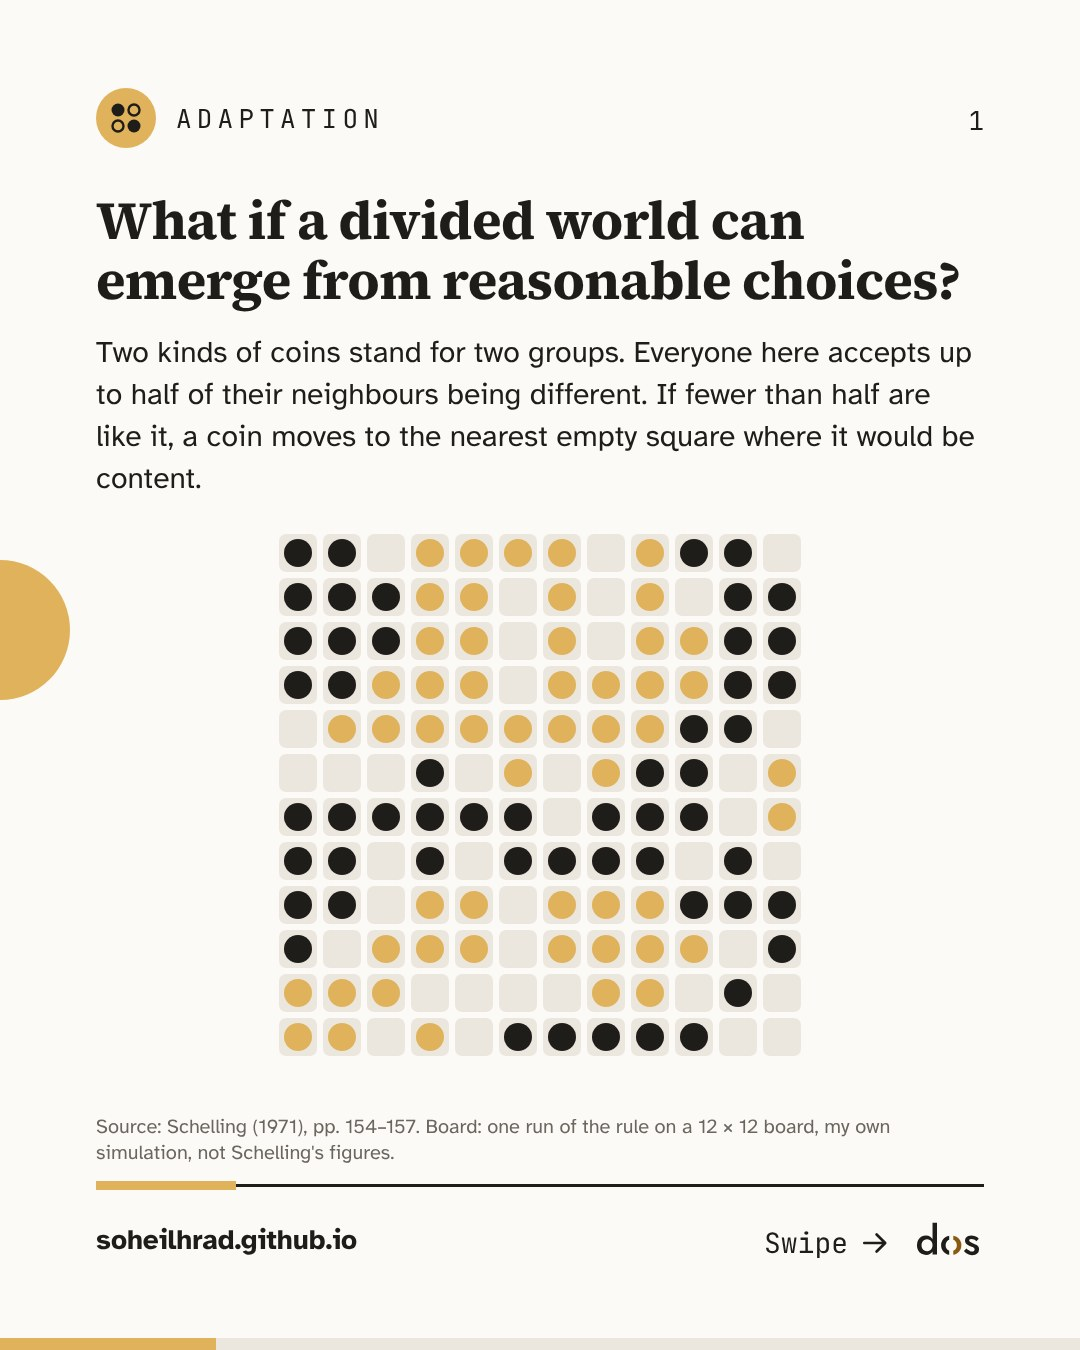
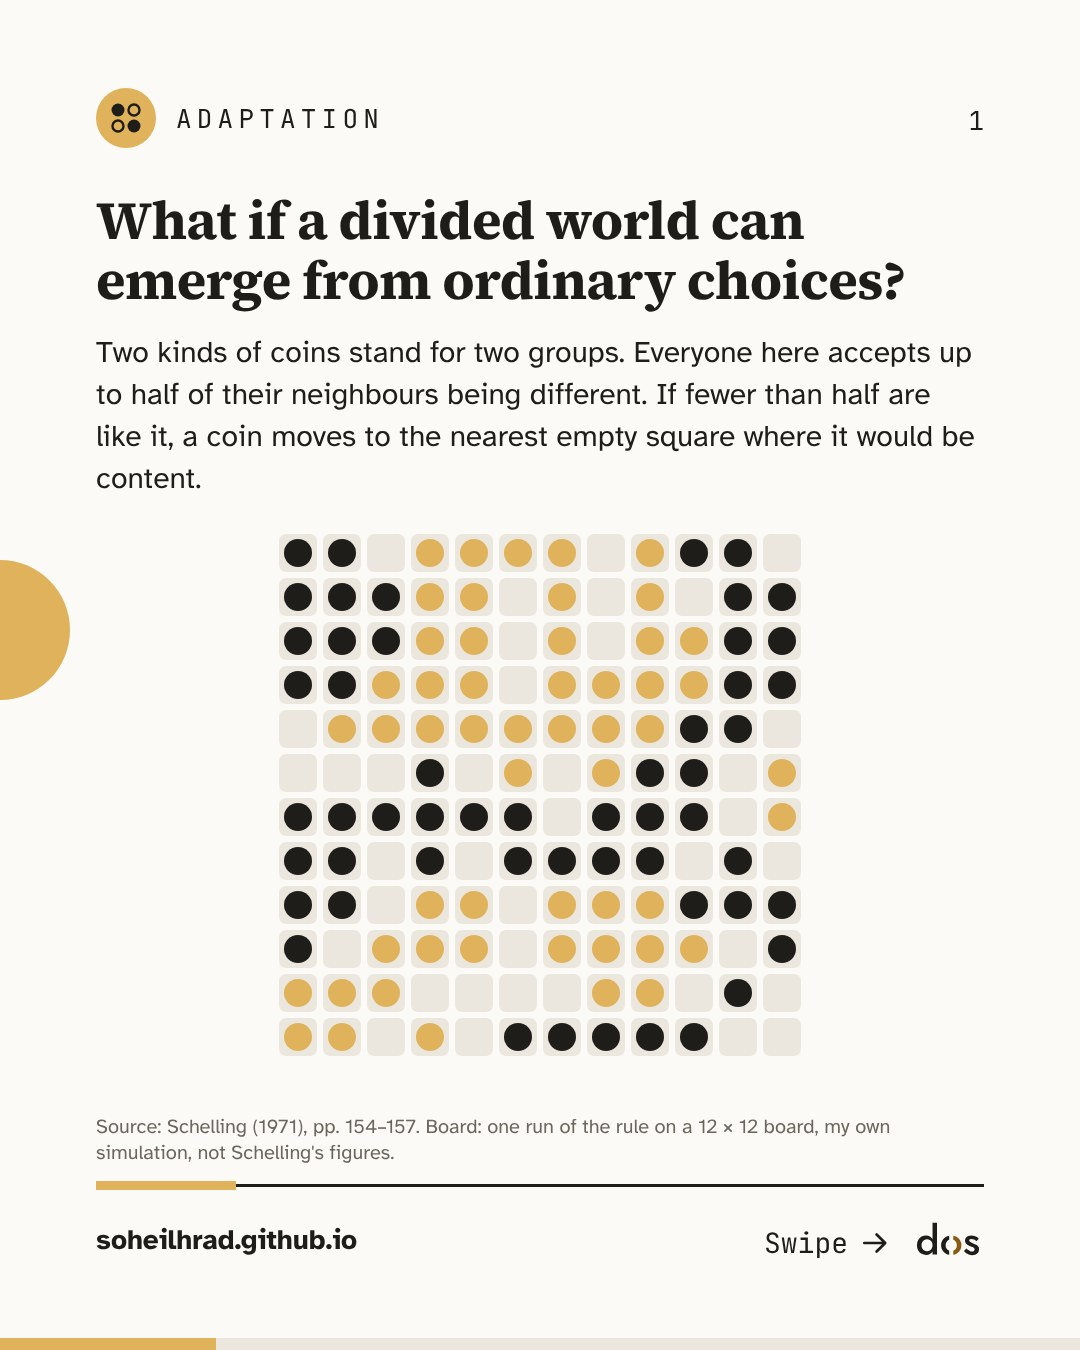
Schelling note: ordinary choices, "Nobody planned a divided map", animated slide 1 back
Slide 1 hook says "ordinary choices"; slide 5 and the note title read
"Nobody planned a divided map". The worked-example sentence no longer
states the 90% figure in the text (slide 2 still does, with its page
source). Slide 1 is the animated board again, re-rendered with the new
headline; slide1.jpg stays as the still for link previews.

Claude-Session: https://claude.ai/code/session_01PL3C4wNgfD4zTrRayGWWdK

Changed region(s): [[0.3972, 0.1867, 0.8861, 0.2489]]

diff --git a/fa/_posts/2026-10-25-schelling-segregation.md b/fa/_posts/2026-10-25-schelling-segregation.md
@@ -1,8 +1,8 @@
 ---
 layout: post
-title: "هیچکس روی این صفحه نقشهای دو دستهشده نمیخواست"
+title: "هیچکس نقشهای دو دستهشده را برنامهریزی نکرد"
 seo_title: "مدل تفکیک شلینگ: انتخابهای کوچک، جداییهای بزرگ"
-description: "در مدل سال ۱۹۷۱ توماس شلینگ، هر سکه میپذیرد که تا نیمی از همسایههایش با او فرق داشته باشند. در یکی از مثالهای حلشده، یک آدم معمولی باز هم در میان همسایههایی میماند که ۹۰ درصدشان همرنگ خودش است."
+description: "در مدل سال ۱۹۷۱ توماس شلینگ، هر سکه میپذیرد که تا نیمی از همسایههایش با او فرق داشته باشند. در یک مثال حلشده، آدمها باز هم سر از محلههایی درمیآورند که بسیار بیشتر از ترجیحهای پدیدآورندهٔ آنها تفکیکشده است."
 ref: schelling-segregation
 lang: fa
 permalink: /fa/blog/2026/10/schelling-segregation/
@@ -12,8 +12,8 @@ slides_height: 1350
 slides_lang: en
 last_modified_at: 2026-10-25
 slides:
-  - file: slide1.jpg
-    alt: "اگر جهانی دو دستهشده بتواند از انتخابهای معقول پدید بیاید چه؟ دو نوع سکه دو گروه را نشان میدهند. همه در اینجا میپذیرند که تا نیمی از همسایههایشان با آنها فرق داشته باشند. اگر کمتر از نیمی از همسایهها مثل خودش باشند، سکه به نزدیکترین خانهٔ خالیای میرود که در آن راضی خواهد بود. صفحهای ۱۲ در ۱۲ از سکههای تیره و طلایی با چند خانهٔ خالی، پس از جابهجاییها، با رنگهایی که دستهدسته کنار هماند."
+  - file: slide1.gif
+    alt: "اگر جهانی دو دستهشده بتواند از انتخابهای عادی پدید بیاید چه؟ صفحهای ۱۲ در ۱۲ از سکههای تیره و طلایی با چند خانهٔ خالی. دو نوع سکه دو گروه را نشان میدهند. همه در اینجا میپذیرند که تا نیمی از همسایههایشان با آنها فرق داشته باشند. اگر کمتر از نیمی از همسایهها مثل خودش باشند، سکه به نزدیکترین خانهٔ خالیای میرود که در آن راضی خواهد بود. سکهها یکییکی جابهجا میشوند تا رنگها دستهدسته کنار هم بنشینند."
   - file: slide2.jpg
     alt: "بیش از آنچه کسی خواسته بود دو دسته شد. هر سکه فقط لازم داشت که نیمی از همسایههایش مثل خودش باشند. در یکی از مثالهای حلشدهٔ شلینگ، اگر خودِ فرد را هم بشماریم، یک آدم معمولی در محلهای میماند که ۹۰ درصدِ آن همرنگ خودش است. دو صفحه: آغاز، با رنگهای درهم، و پس از جابهجاییها، با رنگهایی که دستهدسته کنار هماند. این یک اجرای شبیهسازی خودم از قاعده روی صفحهای ۱۲ در ۱۲ است که به ۸۳ درصد میرسد."
   - file: slide3.jpg
@@ -21,7 +21,7 @@ slides:
   - file: slide4.jpg
     alt: "سیستمها میتوانند نتیجههایی بسازند که هیچکس بهتنهایی قصدشان را نداشت. سازگاری: آدمها خودشان را با آدمهای پیرامونشان تنظیم میکنند. پدیدآیی: الگویی پیدا میشود که هیچکس هدفش را نداشت. سیستمها: جابهجایی یک نفر چیزی را که نفر بعدی میبیند عوض میکند. پیامدهای ناخواسته: نتیجههایی که هیچکس نخواسته بود، از انتخابهایی که هر کدام بهتنهایی معقول بودند."
   - file: slide5.jpg
-    alt: "هیچکس روی این صفحه نقشهای دو دستهشده نمیخواست. ما هر روز جابهجاییهایی از این دست میکنیم: کنار چه کسی مینشینیم، چه کسی را دنبال میکنیم، چه میخوانیم، کجا راحتایم. بیشترشان هرگز شبیه تصمیم نیستند. اگر جابهجاییهای کوچک میتوانند الگوهایی بسازند که هیچکس انتخابشان نکرده، جابهجاییهای کوچکِ خودِ ما امروز چه الگوهایی میسازند؟ کدامیک شاید از من باشد؟"
+    alt: "هیچکس نقشهای دو دستهشده را برنامهریزی نکرد. ما هر روز جابهجاییهایی از این دست میکنیم: کنار چه کسی مینشینیم، چه کسی را دنبال میکنیم، چه میخوانیم، کجا راحتایم. بیشترشان هرگز شبیه تصمیم نیستند. اگر جابهجاییهای کوچک میتوانند الگوهایی بسازند که هیچکس انتخابشان نکرده، جابهجاییهای کوچکِ خودِ ما امروز چه الگوهایی میسازند؟ کدامیک شاید از من باشد؟"
 ---
 
 {% include slides.html %}
@@ -30,7 +30,7 @@ slides:
 
 در سال ۱۹۷۱، توماس شلینگ (Thomas Schelling) مدلی منتشر کرد دربارهٔ اینکه چگونه تفکیک میتواند از انتخابهای فردی پدید بیاید (Schelling, 1971). صفحهای را تصور کنید با دو نوع سکه برای دو گروه، و چند خانهٔ خالی. همسایههای هر سکه همان هشت خانهٔ اطراف آن است. سکه تا وقتی راضی است که دستکم نیمی از همسایههایش مثل خودش باشند. اگر نه، به نزدیکترین خانهٔ خالیای میرود که در آن راضی خواهد بود.
 
-پس هر سکه میپذیرد که تا نیمی از همسایههایش با او فرق داشته باشند. با این حال، در یکی از مثالهای حلشدهٔ شلینگ، اگر خودِ فرد را هم بشماریم، یک آدم معمولی در محلهای میماند که ۹۰ درصدِ آن همرنگ خودش است. هیچکس ۹۰ درصد را نخواسته بود.
+پس هر سکه میپذیرد که تا نیمی از همسایههایش با او فرق داشته باشند. با این حال، در یک مثال حلشده، آدمها سر از محلههایی درمیآورند که بسیار بیشتر از ترجیحهای پدیدآورندهٔ آنها تفکیکشده است.
 
 این چگونه پیش میآید؟ به گفتهٔ شلینگ (ترجمه): «در این مدل هیچکس حرکت دیگران را پیشبینی نمیکند.» هر جابهجایی محلهٔ کسِ دیگری را عوض میکند و همین میتواند جابهجایی بعدی را به راه بیندازد. چیزی که برایم ماندگار است، عادی بودن هر گام است. یک سکه جابهجا میشود چون کمی احساس غریبگی میکند، و جابهجاییاش چیزی را که همسایههایش میبینند عوض میکند، پس یک نفر دیگر جابهجا میشود. هیچکس دو دسته شدن را برنامهریزی نمیکند، و لازم هم نیست.
 
@@ -71,5 +71,5 @@ slides:
 
 منابع (متن هر دو به انگلیسی است):
 
-1. مقالهٔ اصلی شلینگ، سال ۱۹۷۱. قاعده: صفحههای ۱۵۴ تا ۱۵۷. جملهٔ «هیچکس حرکت دیگران را پیشبینی نمیکند»: صفحهٔ ۱۴۹. مثال ۹۰ درصد: صفحهٔ ۱۵۸. چکیده: صفحهٔ ۱۴۳. نقلقولهای بالا از انگلیسی ترجمه شدهاند.<br><bdi dir="ltr">Schelling, T. C. (1971). Dynamic Models of Segregation. Journal of Mathematical Sociology, 1, 143–186.</bdi><br><bdi dir="ltr">"Nobody in this model anticipates the movements of others." (p. 149)</bdi><br><bdi dir="ltr">"Inferences about individual motives can usually not be drawn from aggregate patterns." (abstract)</bdi>
+1. مقالهٔ اصلی شلینگ، سال ۱۹۷۱. قاعده: صفحههای ۱۵۴ تا ۱۵۷. جملهٔ «هیچکس حرکت دیگران را پیشبینی نمیکند»: صفحهٔ ۱۴۹. مثال حلشده (میانگین محلهٔ هر فرد، با احتساب خودش، ۹۰ درصد همرنگ خودش است): صفحهٔ ۱۵۸. چکیده: صفحهٔ ۱۴۳. نقلقولهای بالا از انگلیسی ترجمه شدهاند.<br><bdi dir="ltr">Schelling, T. C. (1971). Dynamic Models of Segregation. Journal of Mathematical Sociology, 1, 143–186.</bdi><br><bdi dir="ltr">"Nobody in this model anticipates the movements of others." (p. 149)</bdi><br><bdi dir="ltr">"Inferences about individual motives can usually not be drawn from aggregate patterns." (abstract)</bdi>
 2. [مدل Segregation در NetLogo](https://ccl.netlogo.org/netlogo/models/Segregation).<br><bdi dir="ltr">Wilensky, U. (1997). NetLogo Segregation model. Center for Connected Learning and Computer-Based Modeling, Northwestern University.</bdi>

diff --git a/_posts/2026-10-25-schelling-segregation.md b/_posts/2026-10-25-schelling-segregation.md
@@ -1,16 +1,16 @@
 ---
 layout: post
-title: "Nobody on this board wanted a divided map"
+title: "Nobody planned a divided map"
 seo_title: "Schelling's segregation model: small choices, big divides"
-description: "In Thomas Schelling's 1971 model, every coin accepts up to half of its neighbours being different. In one worked example, the average person still ends up among neighbours who are 90% their own colour."
+description: "In Thomas Schelling's 1971 model, every coin accepts up to half of its neighbours being different. In one worked example, people still end up in neighbourhoods far more segregated than the preferences that produced them."
 ref: schelling-segregation
 image: /assets/img/posts/schelling-segregation/slide1.jpg
 slides_width: 1080
 slides_height: 1350
 last_modified_at: 2026-10-25
 slides:
-  - file: slide1.jpg
-    alt: "What if a divided world can emerge from reasonable choices? Two kinds of coins stand for two groups. Everyone here accepts up to half of their neighbours being different. If fewer than half are like it, a coin moves to the nearest empty square where it would be content. A 12 by 12 board of dark and gold coins with some empty squares, shown after the moves, with the colours in clumps."
+  - file: slide1.gif
+    alt: "What if a divided world can emerge from ordinary choices? A 12 by 12 board of dark and gold coins with some empty squares. Two kinds of coins stand for two groups. Everyone here accepts up to half of their neighbours being different. If fewer than half are like it, a coin moves to the nearest empty square where it would be content. The coins move one at a time until the colours settle into clumps."
   - file: slide2.jpg
     alt: "More divided than anyone asked for. Each coin only needed half of its neighbours to be like it. In one of Schelling's worked examples, the average person ends up in a neighbourhood that is 90% their own colour, counting themselves. Two boards: the start, with the colours mixed, and after the moves, with the colours in clumps. My own run of the rule on a 12 by 12 board, which ends at 83%."
   - file: slide3.jpg
@@ -18,7 +18,7 @@ slides:
   - file: slide4.jpg
     alt: "Systems can create outcomes that nobody individually intended. Adaptation: people adjust to the people around them. Emergence: a pattern appears that no one was aiming for. Systems: one person's move changes what the next person sees. Unintended consequences: outcomes nobody asked for, from choices that each made sense."
   - file: slide5.jpg
-    alt: "Nobody on this board wanted a divided map. We make moves like these every day: who we sit with, who we follow, what we read, where we feel at ease. Most of them never feel like decisions. If small moves can create patterns nobody chose, what patterns are our own small moves creating today? Which of them might be mine?"
+    alt: "Nobody planned a divided map. We make moves like these every day: who we sit with, who we follow, what we read, where we feel at ease. Most of them never feel like decisions. If small moves can create patterns nobody chose, what patterns are our own small moves creating today? Which of them might be mine?"
 ---
 
 {% include slides.html %}
@@ -27,7 +27,7 @@ Many of us have the same feeling: the world is dividing. In politics, in culture
 
 In 1971, Thomas Schelling published a model of how segregation can arise from individual choices (Schelling, 1971). Picture a board with two kinds of coins for two groups, and some empty squares. A coin's neighbours are the eight squares around it. A coin is content as long as at least half of its neighbours are like it. If not, it moves to the nearest empty square where it would be content.
 
-So every coin accepts up to half of its neighbours being different. Yet in one of Schelling's worked examples, the average person ends up in a neighbourhood that is 90% their own colour, counting themselves. Nobody asked for 90%.
+So every coin accepts up to half of its neighbours being different. Yet in one worked example, people end up in neighbourhoods that are far more segregated than the preferences that produced them.
 
 How does that happen? In Schelling's words: "Nobody in this model anticipates the movements of others." Each move changes the neighbourhood of someone else, and that can set off the next move. What stays with me is how ordinary each step is. One coin moves because it feels a little out of place, and its move changes what its neighbours see, so someone else moves. No one plans a divide, and no one needs to.
 
@@ -68,5 +68,5 @@ The boards on slides 1 and 2 are one run of my own simulation of the rule (a 12 
 
 Sources:
 
-- Schelling, T. C. (1971). Dynamic Models of Segregation. *Journal of Mathematical Sociology*, 1, 143–186. The rule: pp. 154–157. The "nobody anticipates" sentence: p. 149. The 90% example: p. 158. The abstract: p. 143.
+- Schelling, T. C. (1971). Dynamic Models of Segregation. *Journal of Mathematical Sociology*, 1, 143–186. The rule: pp. 154–157. The "nobody anticipates" sentence: p. 149. The worked example (the average person's neighbourhood is 90% their own colour, counting themselves): p. 158. The abstract: p. 143.
 - Wilensky, U. (1997). [NetLogo Segregation model](https://ccl.netlogo.org/netlogo/models/Segregation). Center for Connected Learning and Computer-Based Modeling, Northwestern University.
